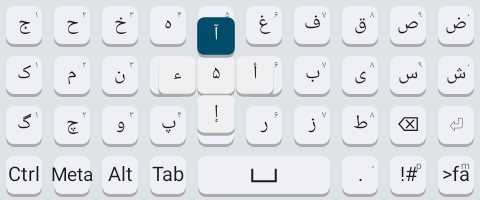
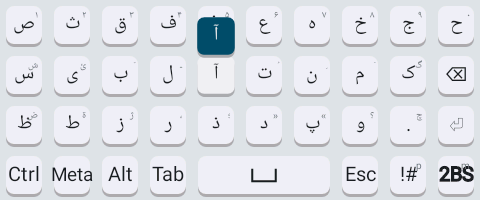
Rebuild Persian to the reporter's arrangement
The first cut was mirrored: it put the reading start at the visual
right, but a Persian keyboard - hardware and Gboard alike - keeps the
physical orientation, the ص side on the left; RTL is the text
direction, not a keyboard mirror. This is the arrangement the
reporter drew in issue #4: three letter rows like QWERTY, Backspace
and Enter at the row ends, the rarer letters, the tashkil and the
Persian marks as each key's secondary - reachable by long-press and,
equally, by an upward drag - and QWERTY's own bottom row.

Release 0.1.147 (versionCode 148).

diff --git a/app/src/main/java/com/retekey/KeyboardLayouts.java b/app/src/main/java/com/retekey/KeyboardLayouts.java
@@ -1039,38 +1039,42 @@ public final class KeyboardLayouts {
      * cannot do without.
      */
     private static KeyboardLayout persian() {
-        // Backspace ends the first row and Enter the third — each at the visual right edge, on
-        // separate rows the way every keyboard puts them (owner's request, 2026-08-27); the letter
-        // that makes room, ج, is the reading-order tail of ISIRI's first row and slides down to
-        // sit beside its family چ, keeping the relative order intact.
-        List<List<SoftwareKeySpec>> rows = new ArrayList<>(3);
-        List<SoftwareKeySpec> first = new ArrayList<>(10);
-        for (char c : "حخهعغفقصض".toCharArray()) {
-            first.add(letter(String.valueOf(c), false));
+        // ★ 두 번째 판 (issue #4, @xmha97 제안 그대로, 2026-08-29). 첫 판은 좌우가 뒤집혀
+        // 있었다 — 읽기 시작점을 화면 오른쪽에 두었지만, 페르시아 키보드(하드웨어도 Gboard 도)는
+        // 물리 배열과 같은 시각 순서, 곧 ض 쪽이 왼쪽이다. 이 판은 보고자가 그려 준 배열이다:
+        // QWERTY 처럼 글자 세 줄, 표준 글자들이 제 위치에, ⌫/⏎ 는 줄 오른쪽 끝에, 그리고
+        // 저빈도 글자·타슈킬·페르시아 문장부호는 각 키의 보조 글자로 — 길게 눌러도, 위로 짧게
+        // 끌어도 나온다.
+        String[][] letters = {
+            {"ص", "ث", "ق", "ف", "غ", "ع", "ه", "خ", "ج", "ح"},
+            {"س", "ی", "ب", "ل", "ا", "ت", "ن", "م", "ک"},
+            {"ظ", "ط", "ز", "ر", "ذ", "د", "پ", "و"},
+        };
+        String[][] seconds = {
+            {"۱", "۲", "۳", "۴", "۵", "۶", "۷", "۸", "۹", "۰"},
+            {"ش", "ئ", "\u0651", "\u0640", "آ", "\u064F", "\u0650", "\u064E", "گ"},
+            {"ض", "ة", "ژ", "،", "؛", "»", "«", "؟"},
+        };
+        List<List<SoftwareKeySpec>> rows = new ArrayList<>(4);
+        for (int r = 0; r < letters.length; r++) {
+            List<SoftwareKeySpec> row = new ArrayList<>(10);
+            for (int c = 0; c < letters[r].length; c++) {
+                row.add(letter(letters[r][c], false)
+                    .withLongPress(seconds[r][c])
+                    .withFlicks(null, seconds[r][c], null, null));
+            }
+            if (r == 1) {
+                row.add(backspaceKey());
+            }
+            if (r == 2) {
+                // The period carries چ, the letter the ten columns squeezed out of the top row.
+                row.add(letterPeriodKey()
+                    .withLongPress("چ")
+                    .withFlicks(null, "چ", null, null));
+                row.add(enterKey());
+            }
+            rows.add(KeyboardLayout.row(row.toArray(new SoftwareKeySpec[0])));
         }
-        first.add(backspaceKey());
-        rows.add(KeyboardLayout.row(first.toArray(new SoftwareKeySpec[0])));
-        List<SoftwareKeySpec> second = new ArrayList<>(10);
-        for (char c : "کمنتالبیسش".toCharArray()) {
-            second.add(letter(String.valueOf(c), false));
-        }
-        rows.add(KeyboardLayout.row(second.toArray(new SoftwareKeySpec[0])));
-        List<SoftwareKeySpec> third = new ArrayList<>(10);
-        for (char c : "گچجوپدرزط".toCharArray()) {
-            third.add(letter(String.valueOf(c), false));
-        }
-        third.add(enterKey());
-        rows.add(KeyboardLayout.row(third.toArray(new SoftwareKeySpec[0])));
-        // The letters the ten columns squeezed out get a row of their own (visual left-to-right;
-        // it reads آ ث ذ ظ ژ ء أ إ ؤ ئ from the right); the flicks stay as the second path.
-        List<SoftwareKeySpec> fourth = new ArrayList<>(10);
-        for (char c : "ئؤإأءژظذثآ".toCharArray()) {
-            fourth.add(letter(String.valueOf(c), false));
-        }
-        rows.add(KeyboardLayout.row(fourth.toArray(new SoftwareKeySpec[0])));
-        List<List<SoftwareKeySpec>> held = withAccents(
-            withHolds(rows, new String[] {"۱۲۳۴۵۶۷۸۹۰", "۱۲۳۴۵۶۷۸۹۰", "۱۲۳۴۵۶۷۸"}),
-            LatinAccents.PERSIAN, false, java.util.Locale.ROOT);
         List<SoftwareKeySpec> bottom =
             new ArrayList<>(bottomRow(bottomRowCellFor(KeyboardLayoutId.FA_ISIRI)));
         for (int i = 0; i < bottom.size(); i++) {
@@ -1078,7 +1082,7 @@ public final class KeyboardLayouts {
                 bottom.set(i, bottom.get(i).withFlicks(null, "\u200c", null, null));
             }
         }
-        List<List<SoftwareKeySpec>> all = new ArrayList<>(held);
+        List<List<SoftwareKeySpec>> all = new ArrayList<>(rows);
         all.add(bottom);
         return KeyboardLayout.of(KeyboardLayoutId.FA_ISIRI, false, COLUMNS, all);
     }
@@ -1274,13 +1278,6 @@ public final class KeyboardLayouts {
             .withFlicks("\"", "ฯ", "\"", "฿");
     }
 
-    /** The Persian period: the Persian comma held, «» ؟ ؛ on the flicks. */
-    private static SoftwareKeySpec persianPeriodKey() {
-        return SoftwareKeySpec
-            .enabled("touch.text.period.letters", ".", SemanticInput.text("."))
-            .withLongPress("،")
-            .withFlicks("«", "؟", "»", "؛");
-    }
 
     /** The Hebrew period: the comma held, and geresh, gershayim and maqaf on the flicks. */
     private static SoftwareKeySpec hebrewPeriodKey() {
@@ -1403,6 +1400,9 @@ public final class KeyboardLayouts {
             case SR_CYRILLIC:
             case UR_PHONETIC:
             case KA_QWERTY:
+            case FA_ISIRI:
+                // The reporter's bottom row is QWERTY's own (issue #4): the period moved up
+                // beside the letters and Esc keeps its usual seat.
                 return rawKey("escape.letters", "Esc", RawKey.ESCAPE);
             case ES_QWERTY:
                 // ñ took the home row's last cell and backspace took the period's: the period
@@ -1411,8 +1411,6 @@ public final class KeyboardLayouts {
             case HE_STANDARD:
                 // The letter rows are all letters: the period lives beside space.
                 return hebrewPeriodKey();
-            case FA_ISIRI:
-                return persianPeriodKey();
             case AR_101:
                 return arabicPeriodKey();
             case HY_EASTERN:

diff --git a/app/src/test/java/com/retekey/LetterHoldsTest.java b/app/src/test/java/com/retekey/LetterHoldsTest.java
@@ -289,32 +289,36 @@ public final class LetterHoldsTest {
     }
 
     @Test
-    public void persianSitsOnIsirisPositionsInTenColumnsWithTheDottedTwinsUp() {
+    public void persianFollowsTheReportersArrangement() {
+        // issue #4 (@xmha97, 2026-08-29): the reporter's own four-row arrangement, hardware
+        // orientation (ص side on the visual left), secondaries on long-press AND up-flick.
         KeyboardLayout fa = KeyboardLayouts.of(KeyboardLayoutId.FA_ISIRI, false);
-        assertEquals(Arrays.asList("ح", "خ", "ه", "ع", "غ", "ف", "ق", "ص", "ض", "⌫"), labels(fa, 0));
-        assertEquals(Arrays.asList("ک", "م", "ن", "ت", "ا", "ل", "ب", "ی", "س", "ش"), labels(fa, 1));
-        assertEquals(Arrays.asList("گ", "چ", "ج", "و", "پ", "د", "ر", "ز", "ط", "⏎"), labels(fa, 2));
+        assertEquals(Arrays.asList("ص", "ث", "ق", "ف", "غ", "ع", "ه", "خ", "ج", "ح"),
+            labels(fa, 0));
+        assertEquals(Arrays.asList("س", "ی", "ب", "ل", "ا", "ت", "ن", "م", "ک", "⌫"),
+            labels(fa, 1));
+        assertEquals(Arrays.asList("ظ", "ط", "ز", "ر", "ذ", "د", "پ", "و", ".", "⏎"),
+            labels(fa, 2));
         // One page, no Shift — Persian has no capitals.
         assertEquals(fa, KeyboardLayouts.of(KeyboardLayoutId.FA_ISIRI, true));
         assertNull(fa.findById("touch.modifier.shift"));
-        // The dotted twins ride up off their plain letters; the hamza family rides alef and friends.
-        assertEquals("ث", fa.findById("touch.en.ت").flickText(CheonjiinInterpreter.Flick.UP));
-        assertEquals("ذ", fa.findById("touch.en.د").flickText(CheonjiinInterpreter.Flick.UP));
-        assertEquals("ظ", fa.findById("touch.en.ط").flickText(CheonjiinInterpreter.Flick.UP));
-        assertEquals("ژ", fa.findById("touch.en.ز").flickText(CheonjiinInterpreter.Flick.UP));
-        assertEquals("آ", fa.findById("touch.en.ا").flickText(CheonjiinInterpreter.Flick.UP));
-        assertEquals("ء", fa.findById("touch.en.ا").flickText(CheonjiinInterpreter.Flick.LEFT));
-        assertEquals("ؤ", fa.findById("touch.en.و").flickText(CheonjiinInterpreter.Flick.UP));
-        // The digits under the keys are Persian's own, ISIRI's primary layer.
-        assertEquals(Arrays.asList("۱"), fa.rows().get(0).get(0).longPressTexts());
-        assertEquals(Arrays.asList("۱"), fa.rows().get(1).get(0).longPressTexts());
-        // The period beside space carries Persian's punctuation; the space bar flicks up to ZWNJ.
-        SoftwareKeySpec period = fa.findById("touch.text.period.letters");
-        assertEquals(Arrays.asList("،"), period.longPressTexts());
-        assertEquals("«", period.flickText(CheonjiinInterpreter.Flick.LEFT));
-        assertEquals("؟", period.flickText(CheonjiinInterpreter.Flick.UP));
-        assertEquals("»", period.flickText(CheonjiinInterpreter.Flick.RIGHT));
-        assertEquals("؛", period.flickText(CheonjiinInterpreter.Flick.DOWN));
+        // Every secondary is reachable both ways: long-press and an upward drag.
+        String[][] seconds = {
+            {"۱", "۲", "۳", "۴", "۵", "۶", "۷", "۸", "۹", "۰"},
+            {"ش", "ئ", "\u0651", "\u0640", "آ", "\u064F", "\u0650", "\u064E", "گ"},
+            {"ض", "ة", "ژ", "،", "؛", "»", "«", "؟"},
+        };
+        for (int r = 0; r < seconds.length; r++) {
+            for (int c = 0; c < seconds[r].length; c++) {
+                SoftwareKeySpec key = fa.rows().get(r).get(c);
+                assertEquals(Arrays.asList(seconds[r][c]), key.longPressTexts());
+                assertEquals(seconds[r][c], key.flickText(CheonjiinInterpreter.Flick.UP));
+            }
+        }
+        // The period carries چ both ways; the space bar flicks up to the half-space.
+        SoftwareKeySpec period = fa.findById("touch.text.period");
+        assertEquals(Arrays.asList("چ"), period.longPressTexts());
+        assertEquals("چ", period.flickText(CheonjiinInterpreter.Flick.UP));
         SoftwareKeySpec space = fa.findById("touch.text.space");
         assertEquals("\u200c", space.flickText(CheonjiinInterpreter.Flick.UP));
         assertEquals(3, space.columnSpan());
@@ -439,12 +443,10 @@ public final class LetterHoldsTest {
             labels(KeyboardLayouts.of(KeyboardLayoutId.FR_AZERTY, false), 3));
         assertEquals(Arrays.asList("ά", "έ", "ή", "ί", "ό", "ύ", "ώ", "ϊ", "ϋ", "€"),
             labels(KeyboardLayouts.of(KeyboardLayoutId.EL_QWERTY, false), 3));
-        assertEquals(Arrays.asList("ئ", "ؤ", "إ", "أ", "ء", "ژ", "ظ", "ذ", "ث", "آ"),
-            labels(KeyboardLayouts.of(KeyboardLayoutId.FA_ISIRI, false), 3));
         for (KeyboardLayoutId id : Arrays.asList(
                 KeyboardLayoutId.DE_QWERTZ, KeyboardLayoutId.TR_QWERTY, KeyboardLayoutId.PL_QWERTY,
-                KeyboardLayoutId.PT_QWERTY, KeyboardLayoutId.FR_AZERTY, KeyboardLayoutId.EL_QWERTY,
-                KeyboardLayoutId.FA_ISIRI)) {
+                KeyboardLayoutId.PT_QWERTY, KeyboardLayoutId.FR_AZERTY,
+                KeyboardLayoutId.EL_QWERTY)) {
             assertEquals(String.valueOf(id), 5, KeyboardLayouts.of(id, false).rows().size());
         }
         // Turkish cases its new row the Turkish way; German's sharp s capitalises to ẞ.
@@ -453,7 +455,8 @@ public final class LetterHoldsTest {
         // And the four-row layouts stayed four rows.
         for (KeyboardLayoutId id : Arrays.asList(
                 KeyboardLayoutId.ES_QWERTY, KeyboardLayoutId.IT_QWERTY, KeyboardLayoutId.VI_TELEX,
-                KeyboardLayoutId.HE_STANDARD, KeyboardLayoutId.JA_ROMAJI, KeyboardLayoutId.EN_COLEMAK)) {
+                KeyboardLayoutId.HE_STANDARD, KeyboardLayoutId.JA_ROMAJI, KeyboardLayoutId.EN_COLEMAK,
+                KeyboardLayoutId.FA_ISIRI)) {
             assertEquals(String.valueOf(id), 4, KeyboardLayouts.of(id, false).rows().size());
         }
     }

diff --git a/app/src/main/java/com/retekey/LatinAccents.java b/app/src/main/java/com/retekey/LatinAccents.java
@@ -230,21 +230,7 @@ final class LatinAccents {
         "ե", " |և| | "
     );
 
-    /**
-     * Persian: the dotted twins go up (the dots sit on top), and the hamza family rides its
-     * carriers — آ أ إ ء around alef, ؤ over vav, ئ over ye, ة over he.
-     */
-    static final Map<String, String[]> PERSIAN = table(
-        "ت", " |ث| | ",
-        "د", " |ذ| | ",
-        "ط", " |ظ| | ",
-        "ز", " |ژ| | ",
-        "ا", "ء|آ|أ|إ",
-        "و", " |ؤ| | ",
-        "ی", " |ئ| | ",
-        "ه", " |ة| | "
-    );
-
+    
     /** The tonos leans right; the diaeresis goes down; both together go up. */
     static final Map<String, String[]> GREEK = table(
         "α", " | |ά| ",

diff --git a/README.ko.md b/README.ko.md
@@ -1,6 +1,6 @@
 # ReteKey IME
 
-**ReteKey v0.1.146** (최신 릴리즈) 다운로드 — [apk (안드로이드 9+)](https://github.com/rubidus-api/retekey_apk/releases/download/v0.1.146/retekey-0.1.146.apk) · [레거시 apk (안드로이드 4.0+)](https://github.com/rubidus-api/retekey_apk/releases/download/v0.1.146/retekey-0.1.146-legacy.apk)
+**ReteKey v0.1.147** (최신 릴리즈) 다운로드 — [apk (안드로이드 9+)](https://github.com/rubidus-api/retekey_apk/releases/download/v0.1.147/retekey-0.1.147.apk) · [레거시 apk (안드로이드 4.0+)](https://github.com/rubidus-api/retekey_apk/releases/download/v0.1.147/retekey-0.1.147-legacy.apk)
 
 [English](README.md) · **한국어**
 
@@ -53,8 +53,8 @@ APK를 바로 받으실 수도 있습니다.
 **[⬇ 안드로이드 4.0 이상](https://github.com/rubidus-api/retekey_apk/releases/latest/download/retekey-legacy.apk)**
 &nbsp;·&nbsp; [모든 릴리즈](https://github.com/rubidus-api/retekey_apk/releases)
 
-현재 릴리즈: **v0.1.146** —
-[retekey-0.1.146.apk](https://github.com/rubidus-api/retekey_apk/releases/download/v0.1.146/retekey-0.1.146.apk) (617 KB; 안드로이드 4.0 빌드는 516 KB)
+현재 릴리즈: **v0.1.147** —
+[retekey-0.1.147.apk](https://github.com/rubidus-api/retekey_apk/releases/download/v0.1.147/retekey-0.1.147.apk) (617 KB; 안드로이드 4.0 빌드는 516 KB)
 
 폰이 안드로이드 9보다 오래되지 않았다면 첫 번째 링크를 받으시면 됩니다. 두 파일은 같은 앱이고 하나가
 다른 하나를 대체합니다. [두 빌드에 대한 설명](#안드로이드-버전-지원-범위)도 아래에 있습니다. F-Droid에는

diff --git a/README.md b/README.md
@@ -1,6 +1,6 @@
 # ReteKey IME
 
-**ReteKey v0.1.146** (latest release) download — [apk (Android 9+)](https://github.com/rubidus-api/retekey_apk/releases/download/v0.1.146/retekey-0.1.146.apk) · [legacy apk (Android 4.0+)](https://github.com/rubidus-api/retekey_apk/releases/download/v0.1.146/retekey-0.1.146-legacy.apk)
+**ReteKey v0.1.147** (latest release) download — [apk (Android 9+)](https://github.com/rubidus-api/retekey_apk/releases/download/v0.1.147/retekey-0.1.147.apk) · [legacy apk (Android 4.0+)](https://github.com/rubidus-api/retekey_apk/releases/download/v0.1.147/retekey-0.1.147-legacy.apk)
 
 **English** · [한국어](README.ko.md)
 
@@ -53,8 +53,8 @@ Or take an APK directly:
 **[⬇ Android 4.0+](https://github.com/rubidus-api/retekey_apk/releases/latest/download/retekey-legacy.apk)**
 &nbsp;·&nbsp; [all releases](https://github.com/rubidus-api/retekey_apk/releases)
 
-Current release: **v0.1.146** —
-[retekey-0.1.146.apk](https://github.com/rubidus-api/retekey_apk/releases/download/v0.1.146/retekey-0.1.146.apk) (617 KB; the Android 4.0 build is 516 KB)
+Current release: **v0.1.147** —
+[retekey-0.1.147.apk](https://github.com/rubidus-api/retekey_apk/releases/download/v0.1.147/retekey-0.1.147.apk) (617 KB; the Android 4.0 build is 516 KB)
 
 Take the first link unless your phone is older than Android 9; the two are the same app and one
 replaces the other. [More about the two builds](#android-version-support). F-Droid carries the
